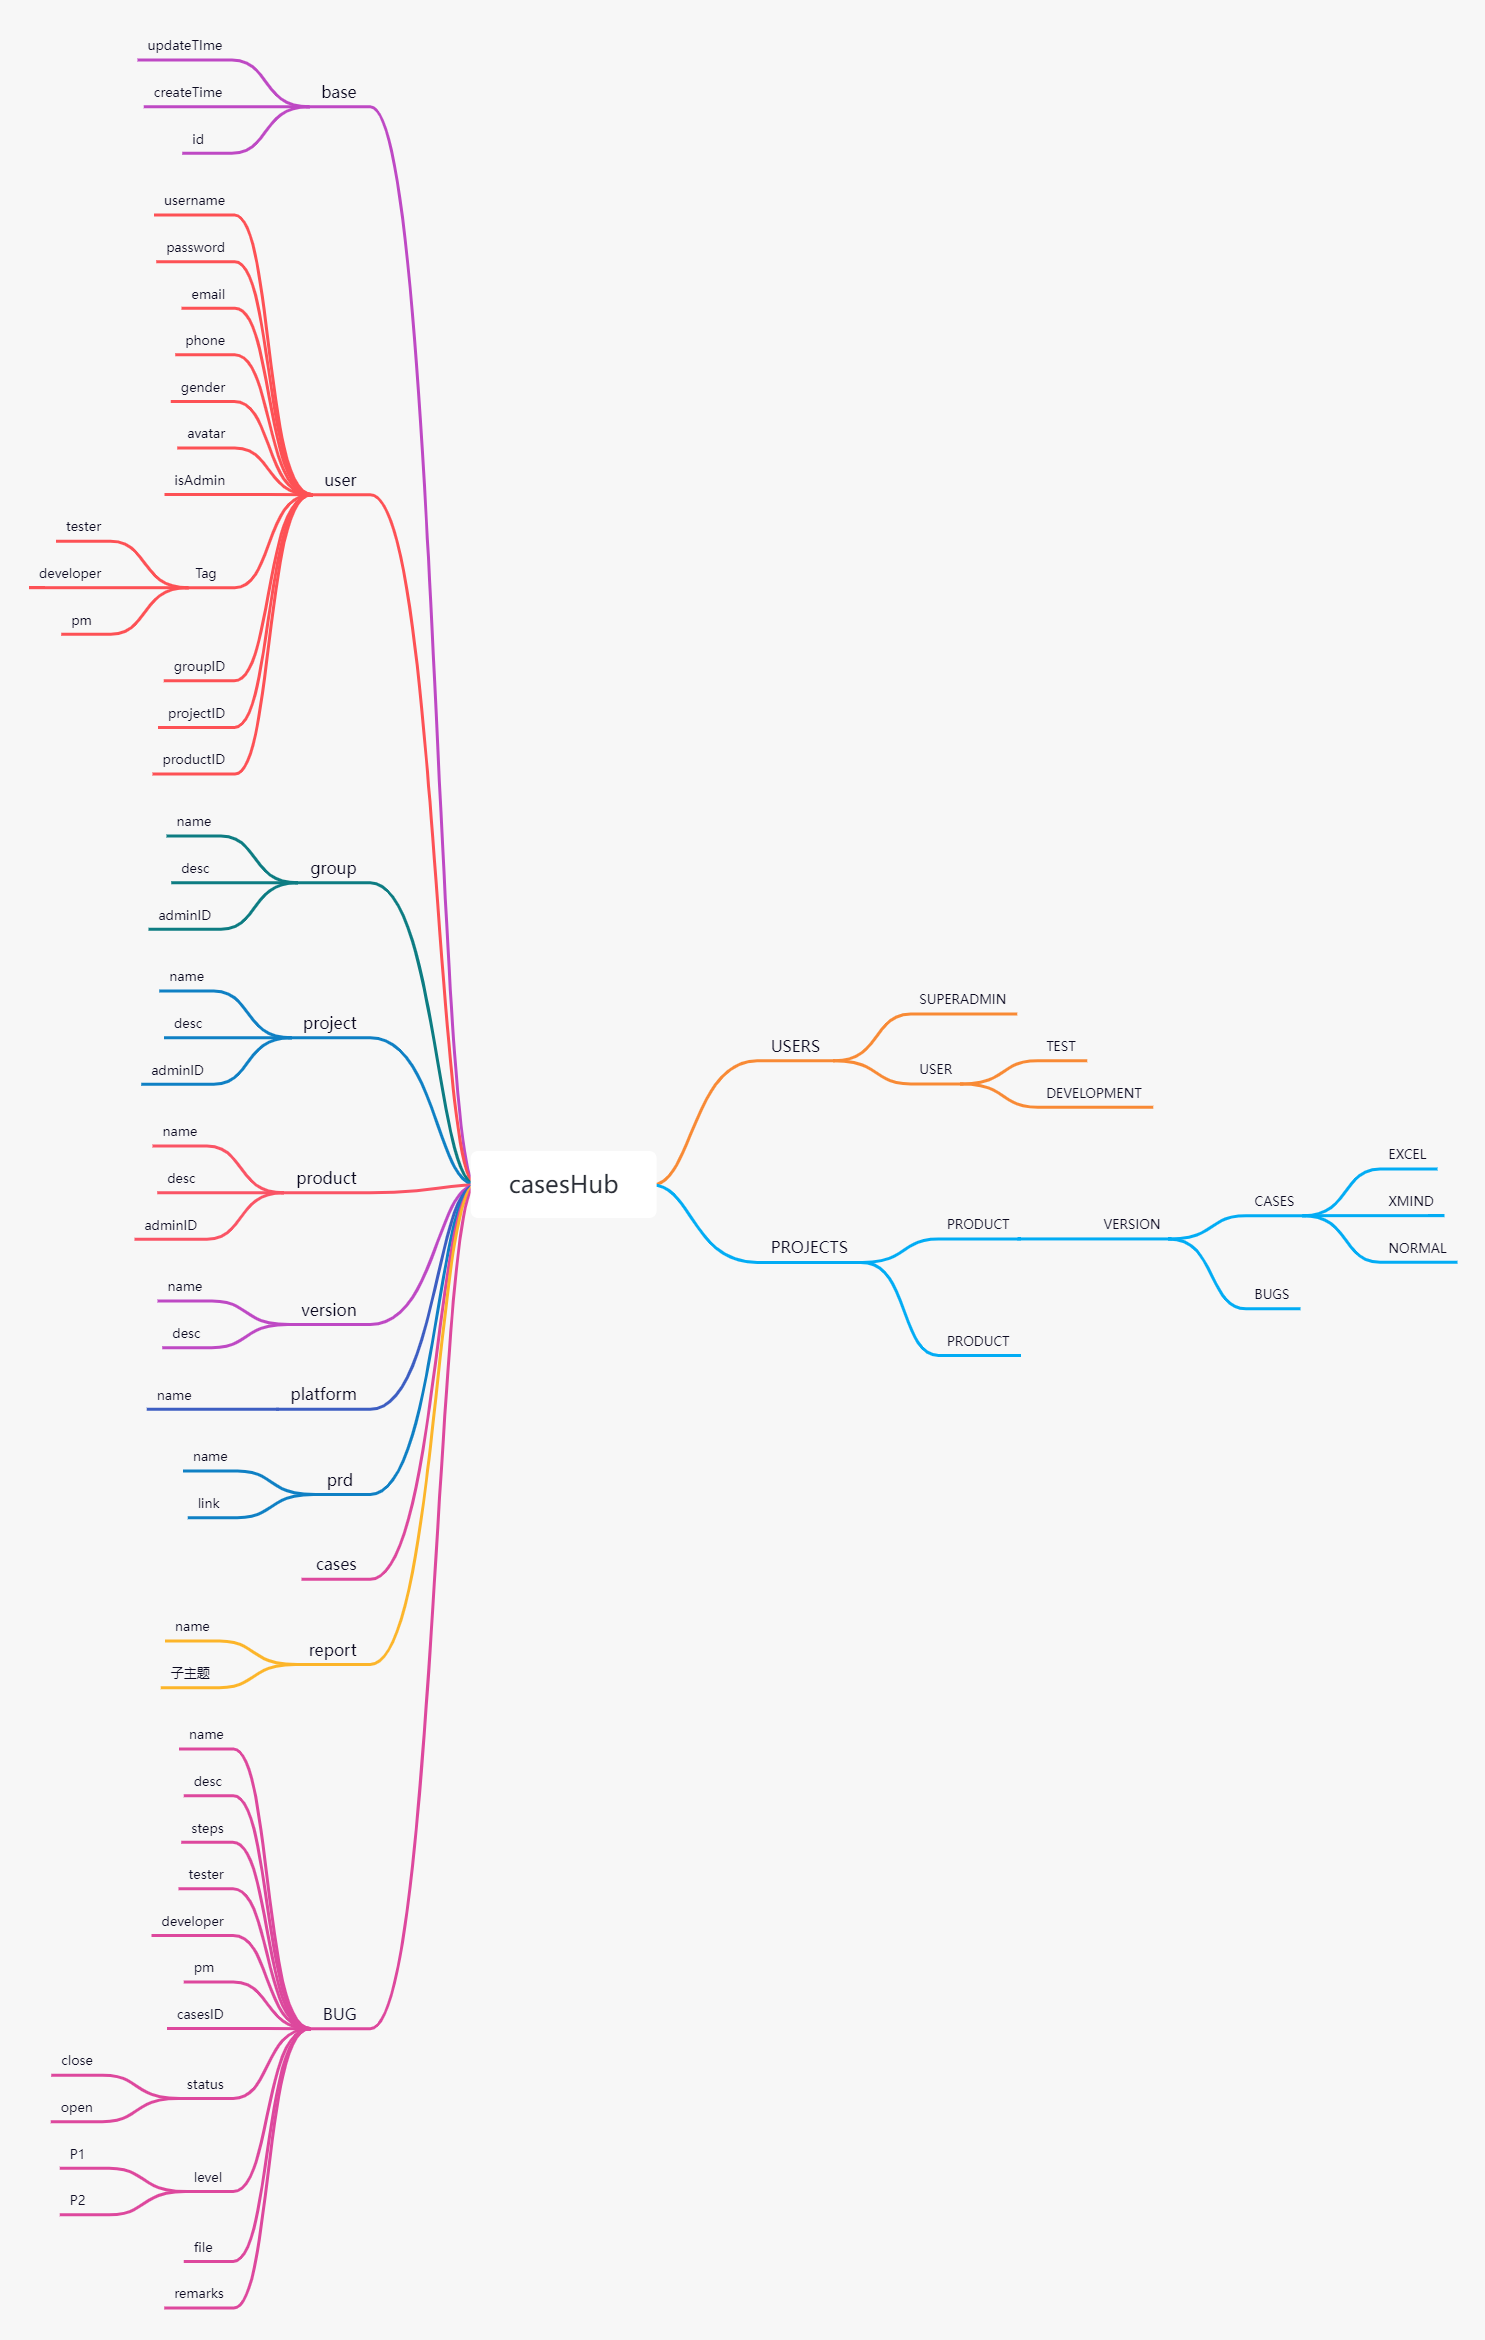
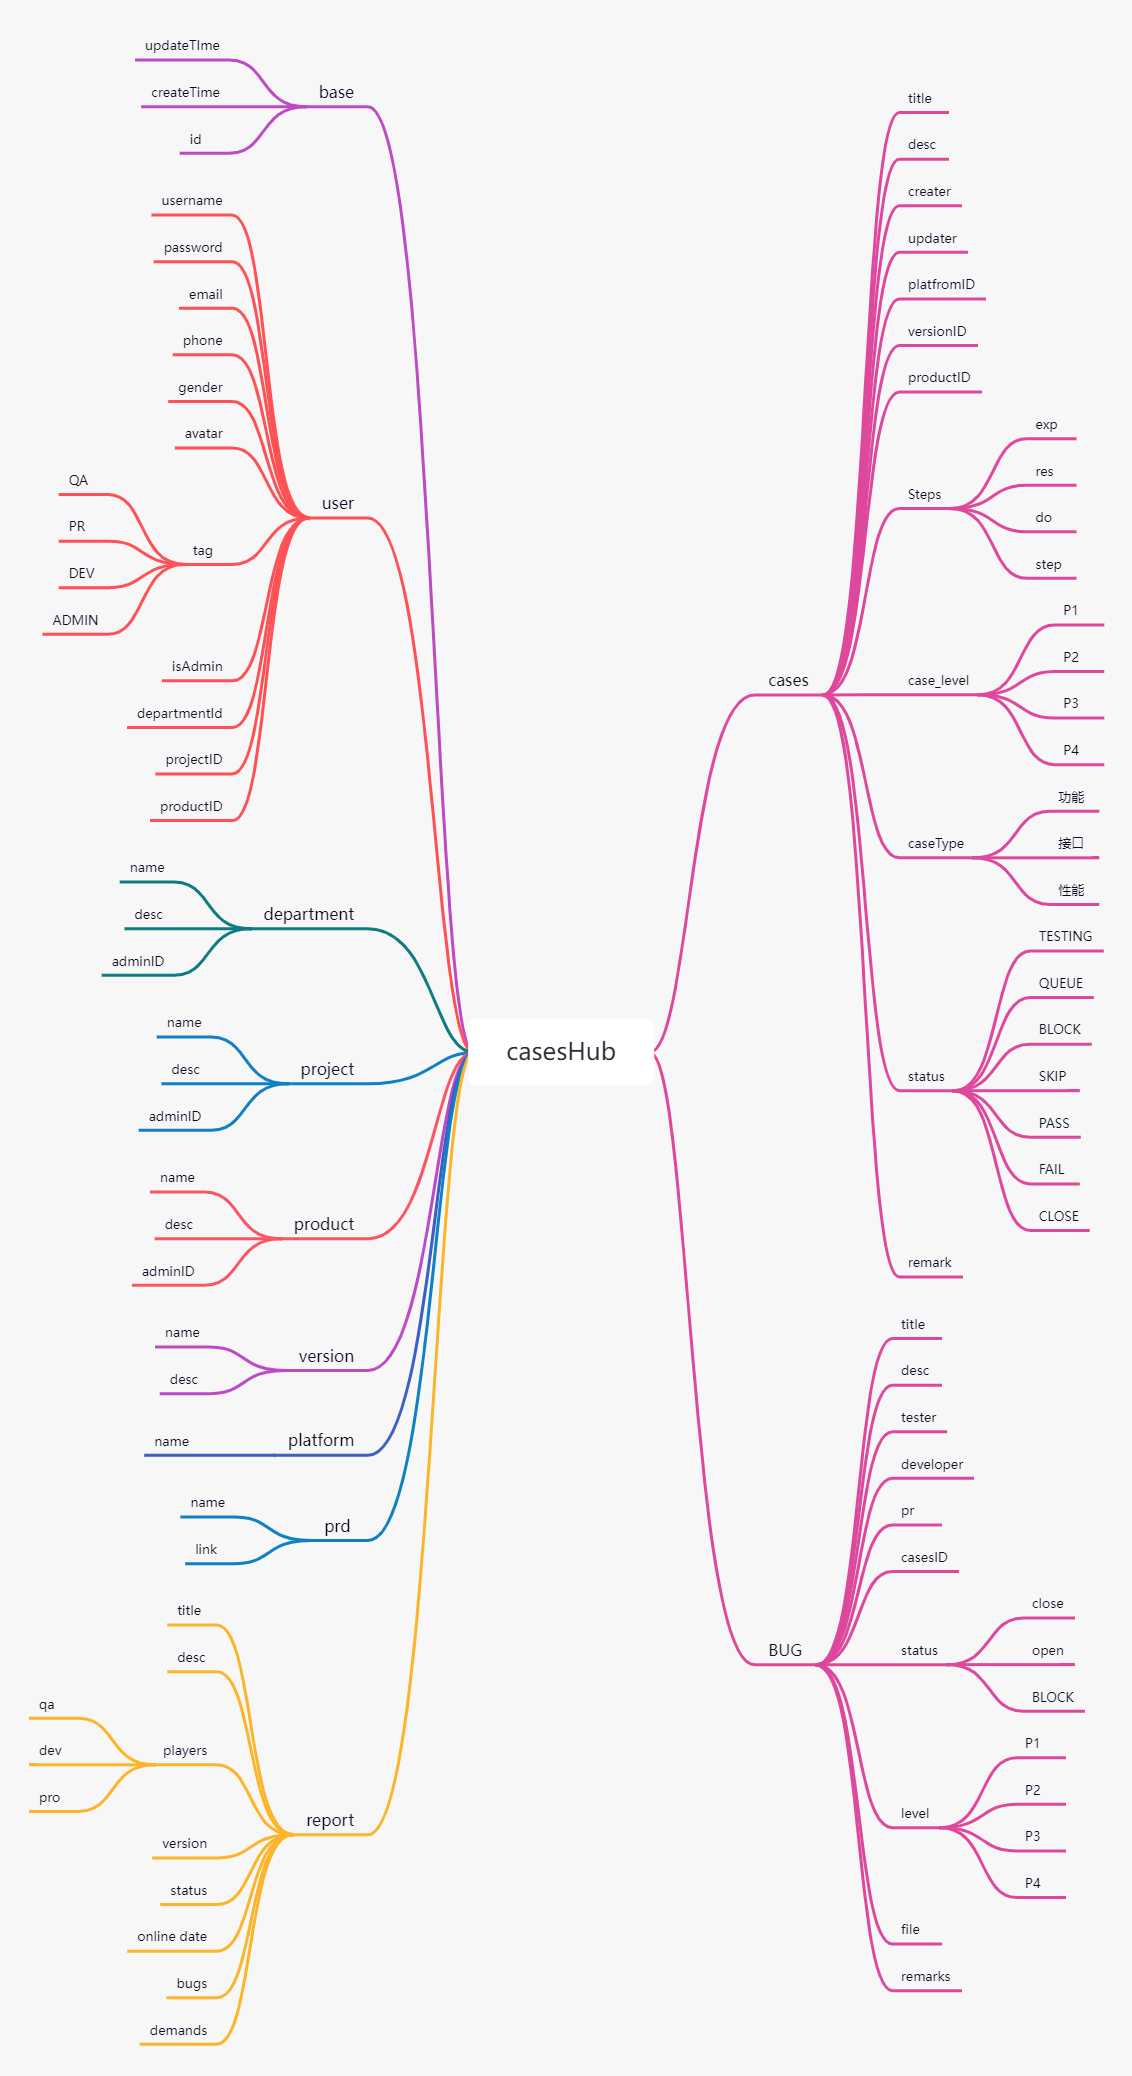
ximd

diff --git a/Models/CaseModel/bugs.py b/Models/CaseModel/bugs.py
@@ -20,7 +20,7 @@ class Bug(Base):
     developer = db.Column(db.String(20), nullable=False, comment="测试")
     pr = db.Column(db.String(20), nullable=False, comment="产品")
     level = db.Column(db.Enum("P1", "P2", "P3", "P4"), server_default="P1", comment="BUG等级")
-    status = db.Column(db.Enum("OPEN", "CLOSE"), server_default="OPEN", comment="BUG状态")
+    status = db.Column(db.Enum("OPEN", "CLOSE","BLOCK"), server_default="OPEN", comment="BUG状态")
     file = db.Column(db.String(50), nullable=True, comment="附件地址")
     mark = db.Column(db.String(100), nullable=True, comment="BUG备注")
     caseID = db.Column(db.INTEGER, db.ForeignKey("cases.id"), comment="所属用例")

diff --git a/App/caseController/bug.py b/App/caseController/bug.py
@@ -29,7 +29,7 @@ class BugController(Resource):
         parse.add(name="developer", type=str, required=True)
         parse.add(name="pr", type=str, required=True)
         parse.add(name="level", type=str, required=True, choices=["P1", "P2", "P3", "P4"])
-        parse.add(name="status", type=str, required=True, choices=["OPEN", "CLOSE"])
+        parse.add(name="status", type=str, required=True, choices=["OPEN", "CLOSE","BLOCK"])
         Bug(**parse.parse_args()).save()
         return MyResponse.success()
 
